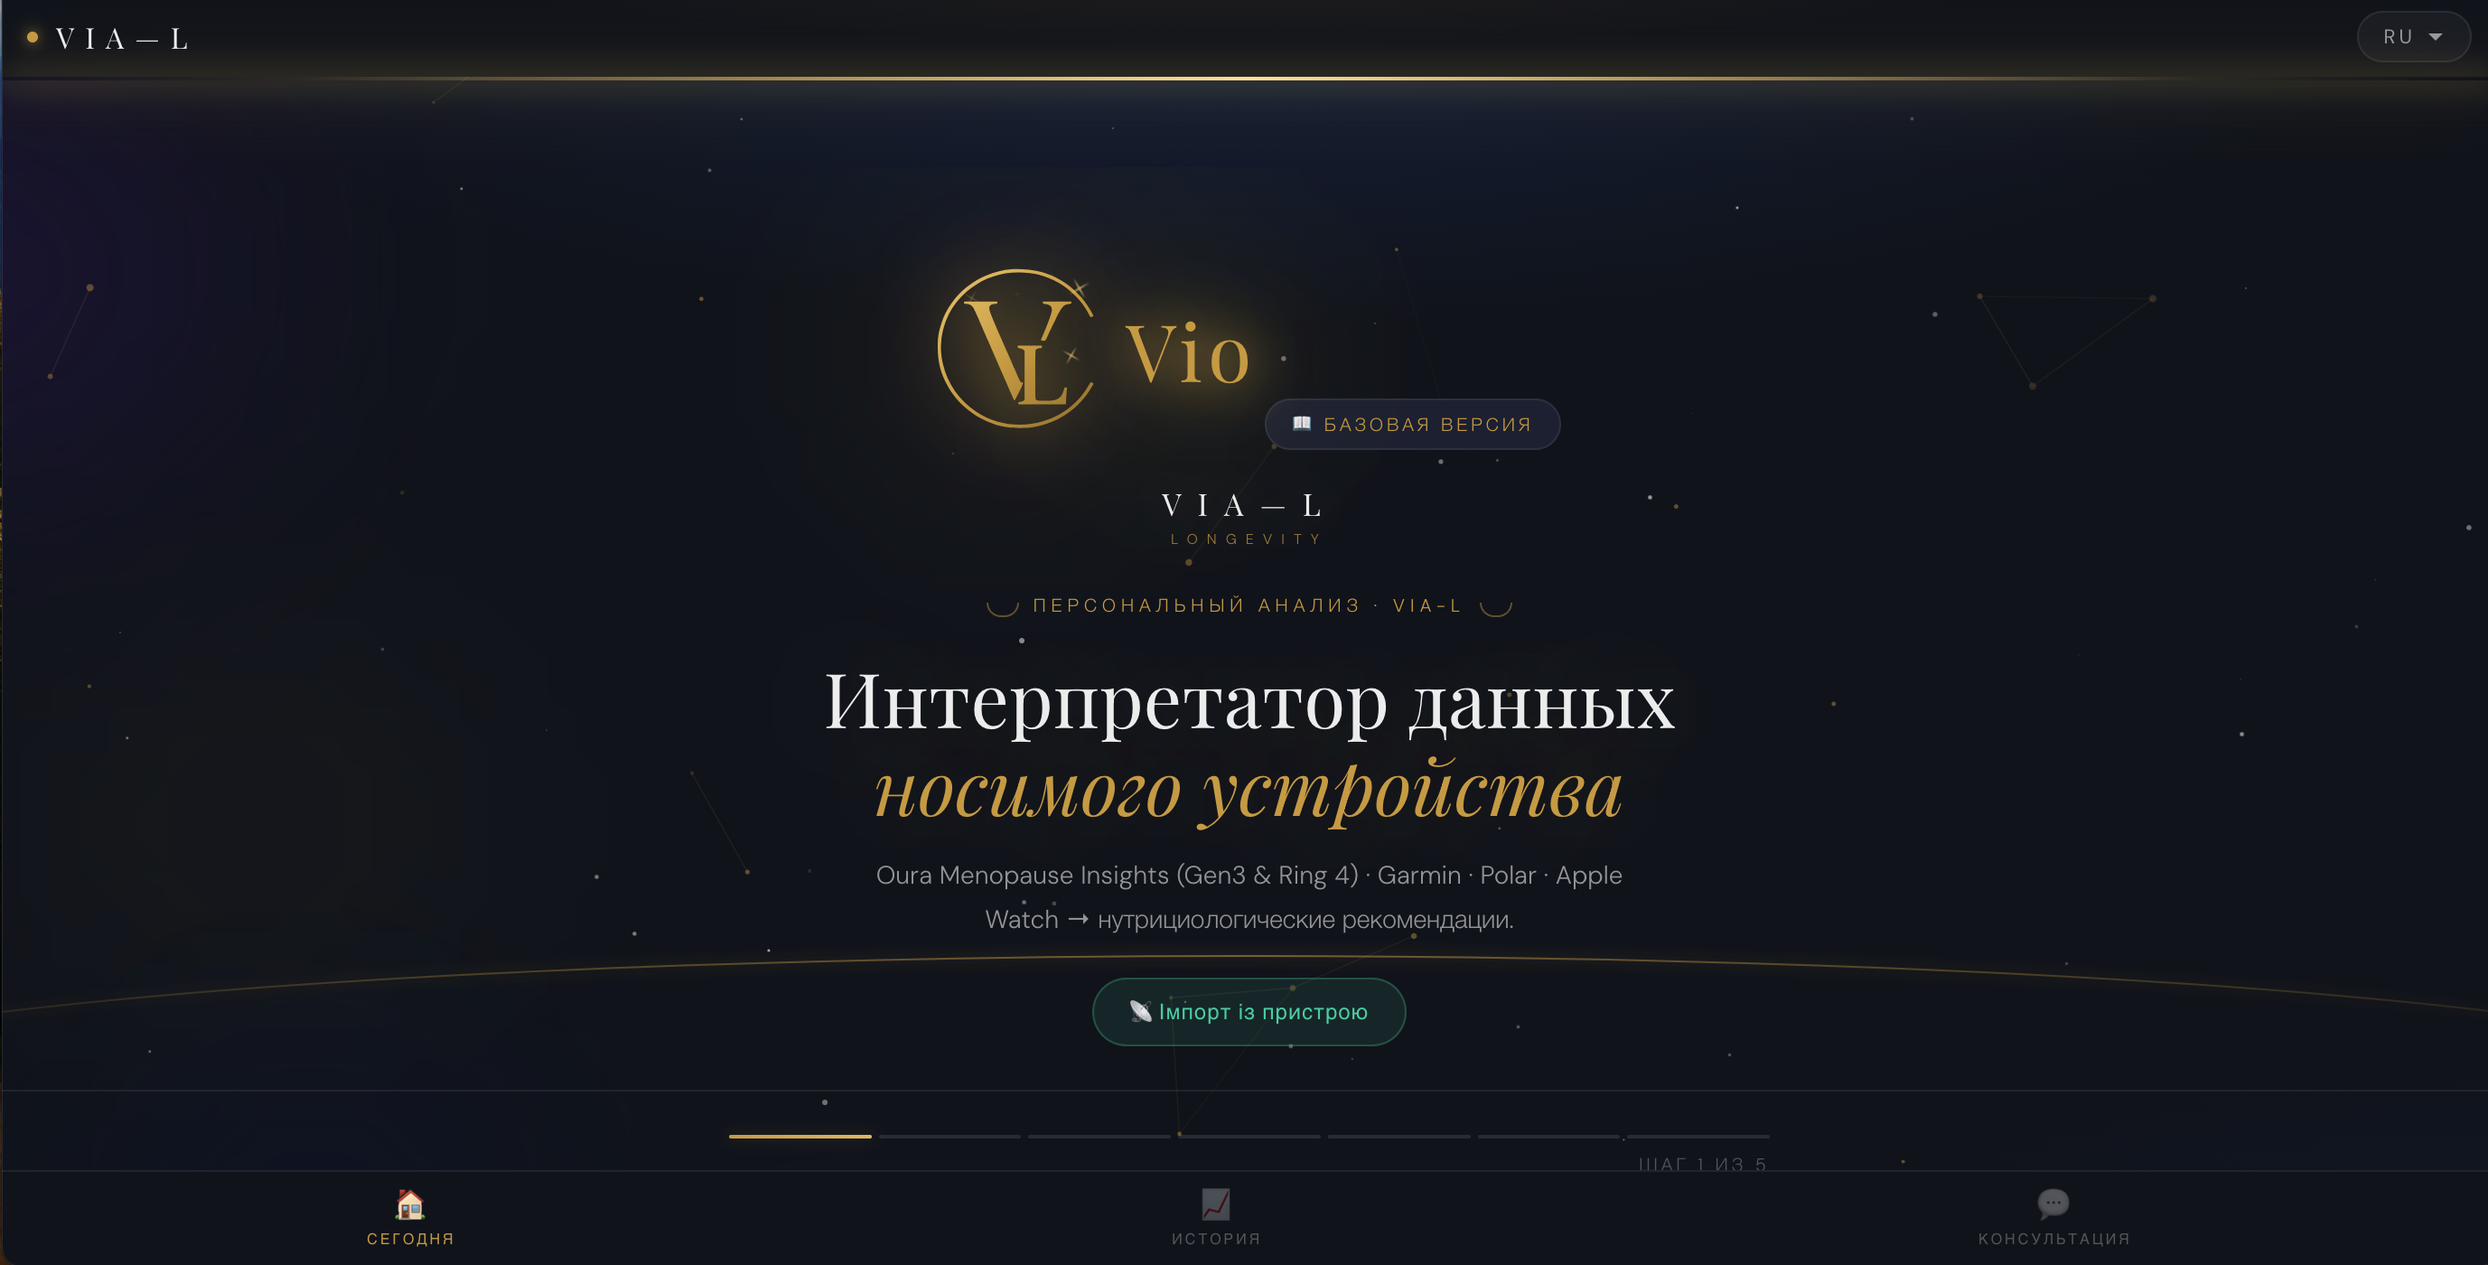
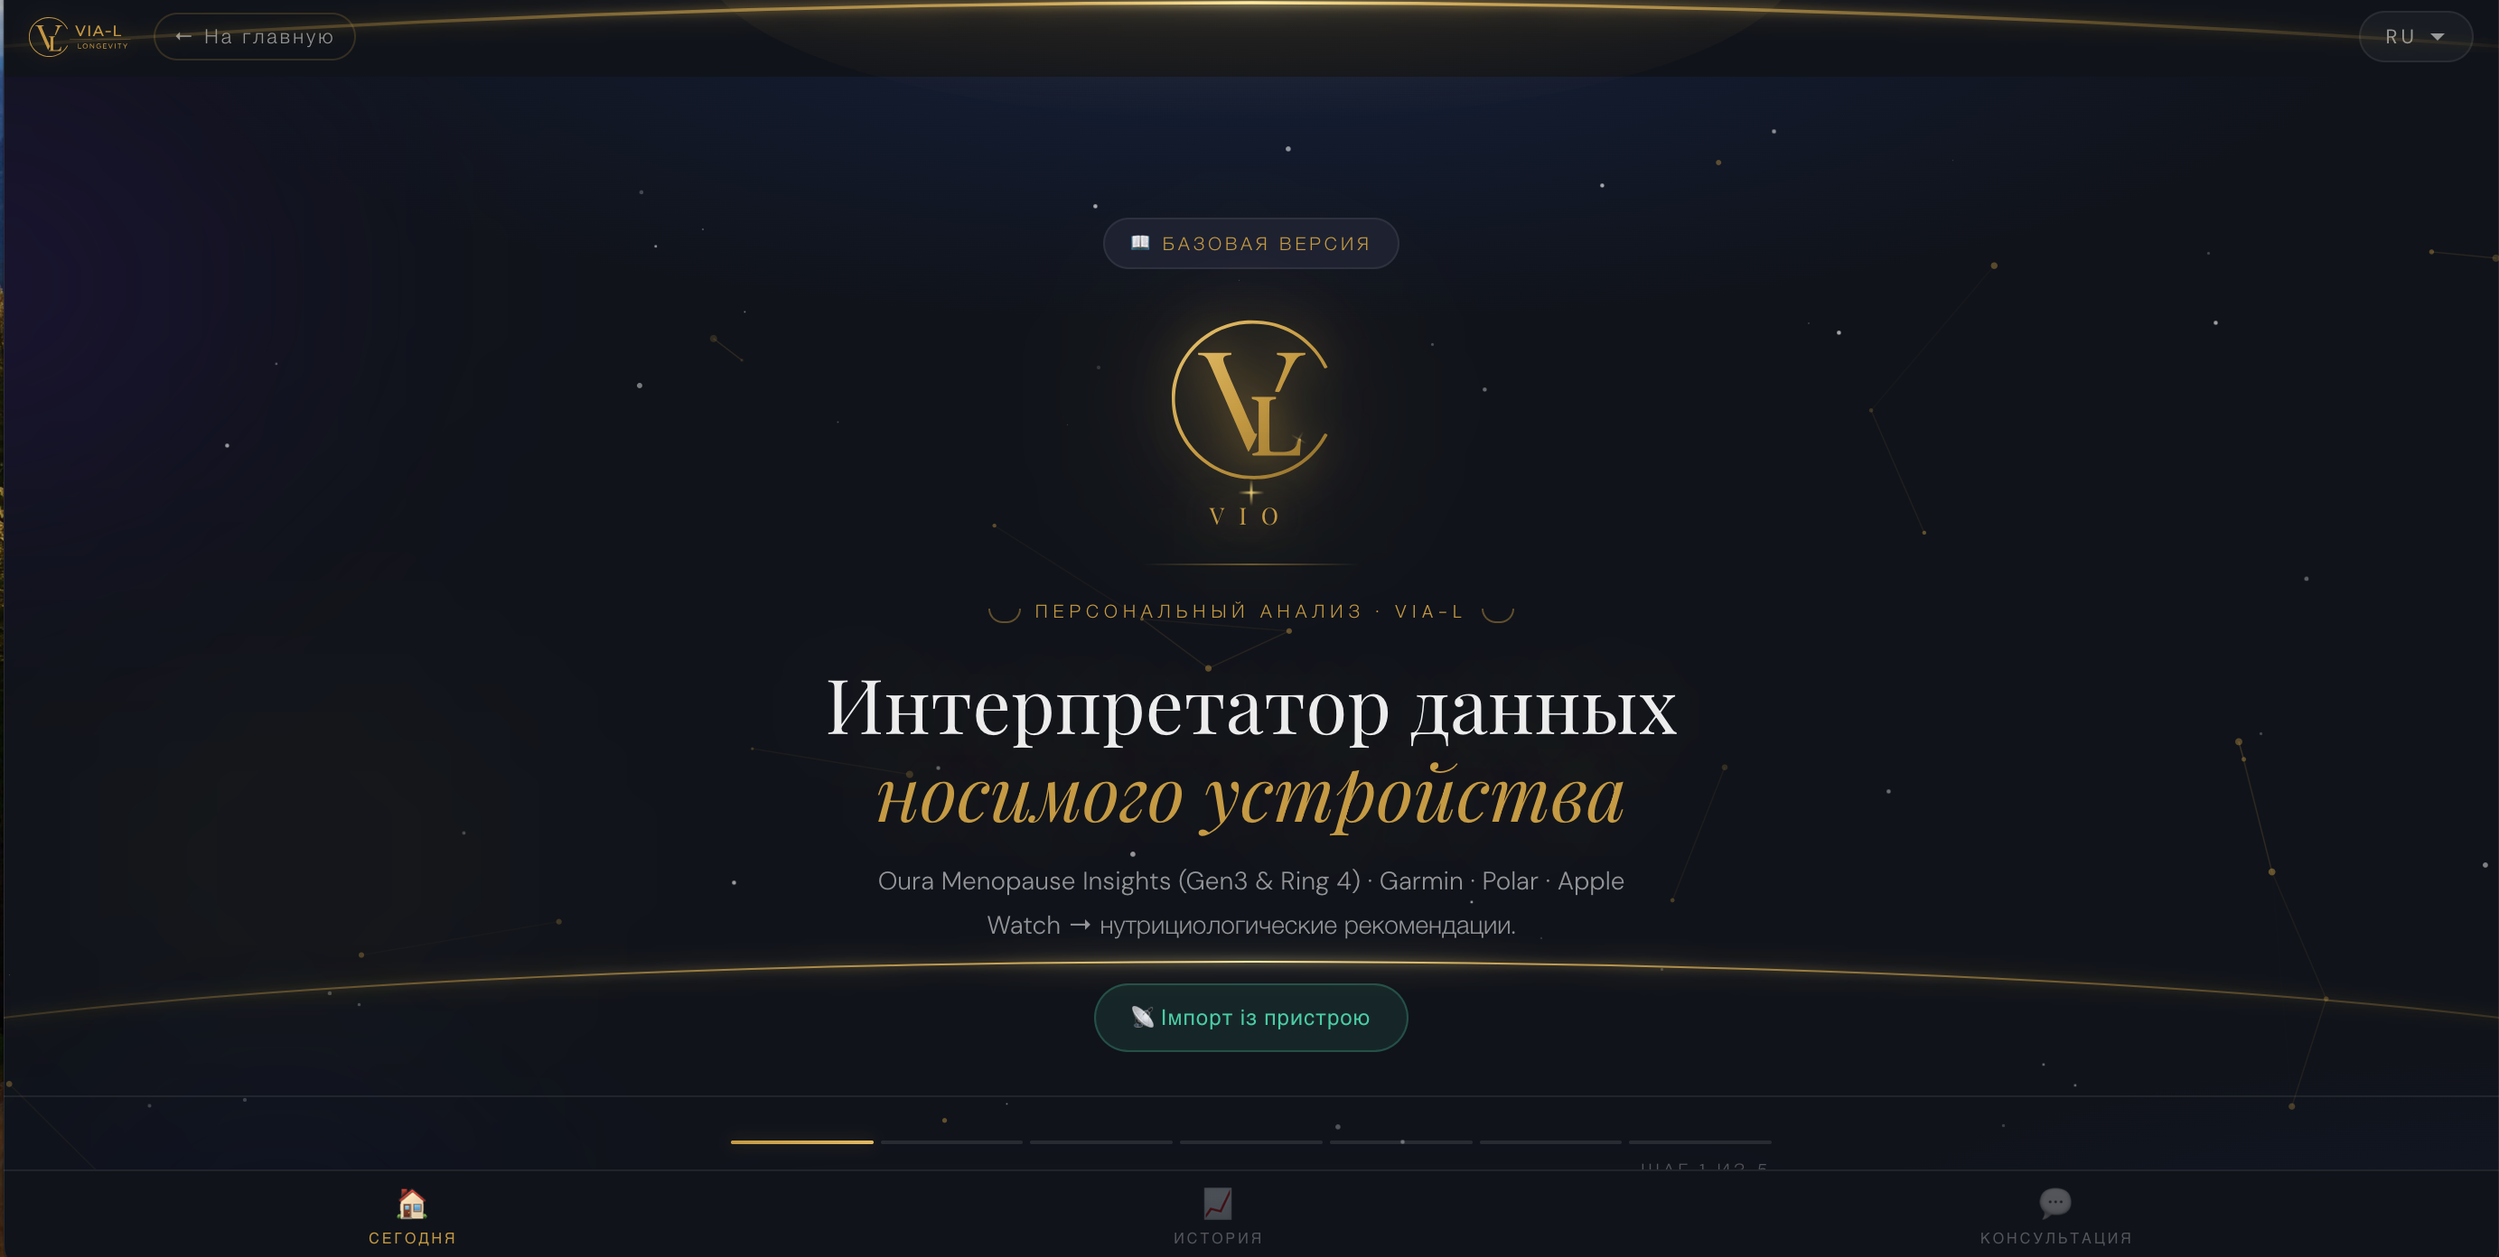
равняем логотип

diff --git a/Интерпретатор /interpreter-v10.html b/Интерпретатор /interpreter-v10.html
@@ -124,7 +124,7 @@ body{
 }
 .lang-logo{text-decoration:none;display:flex;align-items:center;gap:14px;}
 .lang-logo-dot{display:none;}
-.lang-logo svg{height:22px;width:auto;filter:drop-shadow(0 0 6px rgba(196,154,60,0.35));}
+.lang-logo svg{height:34px;width:auto;filter:drop-shadow(0 0 6px rgba(196,154,60,0.35));}
 .topbar-home{
   font-family:'DM Sans',sans-serif;font-size:11px;letter-spacing:1.5px;
   color:var(--t2);text-decoration:none;
@@ -1094,8 +1094,8 @@ footer{
 .lang-bar{border-bottom:none !important;position:relative;overflow:visible;}
 #topbar{overflow:visible;}
 .topbar-planet-arc{
-  position:absolute;bottom:-2px;left:0;width:100%;height:72px;
-  pointer-events:none;z-index:10;overflow:visible;
+  position:absolute;bottom:0;left:0;width:100%;height:30px;
+  pointer-events:none;z-index:20;overflow:visible;
 }
 
 /* ── Hero VL monogram ── */
@@ -1392,7 +1392,7 @@ footer{
 <div class="lang-bar">
   <div style="display:flex;align-items:center;gap:12px;">
     <a href="../interpreter-app/index.html" class="lang-logo">
-      <svg height="22" viewBox="0 0 869 335" fill="none" xmlns="http://www.w3.org/2000/svg">
+      <svg height="34" viewBox="0 0 869 335" fill="none" xmlns="http://www.w3.org/2000/svg">
         <path fill-rule="evenodd" clip-rule="evenodd" d="M153.972 0.575971C86.3115 6.79897 27.6765 52.656 7.54753 115.09C1.53453 133.74 -0.0334622 144.128 0.000537849 165.09C0.0495378 196.331 6.06354 219.476 21.2985 247.061C45.4175 290.731 92.1245 323.787 142.361 332.741C157.959 335.521 185.285 335.737 200.825 333.204C253.728 324.579 298.024 294.082 324.777 247.865L328.38 241.639L326.204 240.115C325.006 239.276 323.491 238.59 322.836 238.59C322.18 238.59 319.947 241.628 317.873 245.34C305.858 266.845 287.231 286.775 266.863 299.918C208.912 337.312 137.117 337.459 80.6935 300.3C45.2895 276.983 20.0005 240.742 11.1165 200.59C6.94454 181.735 5.97355 169.491 7.37755 153.463C11.3936 107.628 33.1695 68.391 69.9715 40.683C99.6925 18.305 132.639 7.35499 170.472 7.28099C201.525 7.21999 228.833 14.315 254.811 29.191C281.652 44.562 305.102 68.973 318.359 95.34C320.087 98.778 321.652 101.59 321.837 101.59C322.504 101.59 328.472 99.388 328.472 99.142C328.472 99.004 326.174 94.66 323.365 89.49C301.093 48.499 260.551 16.742 216.472 5.75898C197.257 0.970984 172.235 -1.10403 153.972 0.575971ZM55.4715 71.09C55.4715 73.361 55.8605 73.592 59.7215 73.612C65.7755 73.643 71.8716 76.723 74.8616 81.261C76.2486 83.367 81.2805 94.09 86.0445 105.09C90.8085 116.09 99.7686 136.79 105.956 151.09C112.143 165.39 120.586 184.74 124.719 194.09C128.851 203.44 136.835 221.665 142.461 234.59C148.087 247.515 154.514 262.271 156.742 267.38C158.97 272.49 161.171 276.904 161.632 277.189C162.691 277.843 178.275 246.262 179.132 241.726C179.713 238.649 179.589 238.418 177.676 239.025C174.77 239.947 174.066 238.681 162.061 210.958C156.376 197.83 149.24 181.465 146.203 174.59C108.799 89.915 106.551 84.048 109.439 78.651C110.954 75.82 116.242 73.59 121.44 73.59C125.074 73.59 125.472 73.343 125.472 71.09V68.59H90.4715H55.4715V71.09ZM221.472 70.95C221.472 73.061 222.025 73.368 226.722 73.855C236.566 74.875 240.486 78.424 240.459 86.29C240.439 92.294 235.464 106.495 222.566 137.365C219.764 144.071 217.472 149.75 217.472 149.986C217.472 150.221 219.321 150.727 221.58 151.108C226.745 151.981 226.985 151.718 232.554 139.09C234.98 133.59 241.991 118.965 248.134 106.59C261.857 78.945 265.062 75.255 276.526 73.897C280.892 73.38 281.472 73.035 281.472 70.951V68.59H251.472H221.472V70.95ZM168.472 163.976C168.472 166.04 169.084 166.455 172.991 167.041C175.483 167.414 178.734 168.771 180.239 170.066L182.969 172.414L182.971 224.087L182.972 275.76L180.679 277.62C179.418 278.643 176.38 279.781 173.929 280.149C170.584 280.65 169.472 281.259 169.472 282.587C169.472 283.581 170.458 284.615 171.722 284.945C172.959 285.269 195.572 285.434 221.972 285.312L269.972 285.09L270.623 273.09C270.981 266.49 271.566 258.503 271.923 255.34C272.525 249.999 272.425 249.59 270.522 249.59C269.394 249.59 268.18 249.478 267.824 249.34C267.468 249.202 266.426 251.79 265.509 255.09C263.427 262.582 261.442 266.355 257.811 269.726C251.19 275.873 243.693 277.59 223.479 277.59C209.222 277.59 208.519 277.495 207.029 275.367C205.67 273.428 205.472 266.762 205.472 222.949C205.472 195.342 205.752 172.025 206.093 171.135C206.984 168.812 211.79 166.59 215.922 166.59C219.042 166.59 219.472 166.287 219.472 164.09V161.59H193.972H168.472V163.976ZM337.472 189.09C337.472 190.414 349.796 190.59 442.389 190.59C525.386 190.59 547.411 190.329 547.81 189.34C548.213 188.34 548.33 188.34 548.393 189.34C548.456 190.334 581.181 190.59 708.472 190.59C850.028 190.59 868.472 190.417 868.472 189.09C868.472 187.761 843.87 187.59 653.055 187.59C481.658 187.59 437.536 187.845 437.134 188.84C436.731 189.84 436.614 189.84 436.551 188.84C436.489 187.858 425.863 187.59 386.972 187.59C343.639 187.59 337.472 187.777 337.472 189.09ZM393.435 78.84C395.561 83.927 401.903 98.665 407.527 111.59C413.152 124.515 420.136 140.715 423.048 147.59L428.343 160.09L434.407 160.388C439.934 160.659 440.554 160.482 441.4 158.388C442.565 155.506 461.082 111.992 467.698 96.59C476.68 75.679 478.472 71.324 478.472 70.407C478.472 69.907 475.449 69.632 471.754 69.794L465.036 70.09L450.296 105.464C442.189 124.92 435.391 141.005 435.188 141.207C434.873 141.522 419.776 106.709 407.927 78.34L404.272 69.59H396.92H389.569L393.435 78.84ZM501.472 115.09V160.59H508.472H515.472V115.09V69.59H508.472H501.472V115.09ZM578.616 71.34C578.106 72.302 574.762 79.615 571.183 87.59C567.605 95.565 562.999 105.69 560.949 110.09C548.019 137.84 538.472 159.114 538.472 160.179C538.472 160.405 541.561 160.59 545.336 160.59H552.2L554.003 155.87C554.994 153.274 557.319 147.874 559.169 143.87L562.533 136.59H584.801H607.07L608.335 140.089C609.031 142.013 611.393 147.413 613.584 152.089L617.568 160.59H624.52C628.344 160.59 631.472 160.415 631.472 160.201C631.472 159.987 629.169 154.699 626.354 148.451C623.539 142.202 620.203 134.615 618.942 131.59C617.68 128.565 612.748 117.54 607.982 107.09C603.216 96.64 597.474 83.927 595.222 78.84L591.127 69.59H585.335C580.838 69.59 579.335 69.981 578.616 71.34ZM716.472 115.09V160.59H746.972H777.472V155.09V149.59H753.972H730.472V109.59V69.59H723.472H716.472V115.09ZM596.039 111.78C599.027 118.759 601.472 124.722 601.472 125.03C601.472 125.338 593.774 125.59 584.365 125.59C571.069 125.59 567.374 125.312 567.778 124.34C568.065 123.653 571.215 116.565 574.779 108.59C578.343 100.615 582.017 92.29 582.943 90.09L584.626 86.09L587.616 92.59C589.26 96.165 593.05 104.8 596.039 111.78ZM645.472 122.09V127.59H667.972H690.472V122.09V116.59H667.972H645.472V122.09ZM414.472 243.59V264.59H427.972H441.472V262.09V259.59H430.472H419.472V241.09V222.59H416.972H414.472V243.59ZM464.625 225.201C460.572 227.221 458.703 228.976 456.372 232.951C453.661 237.573 453.4 238.755 453.772 244.701C454.297 253.104 458.18 259.302 464.981 262.594C472.562 266.264 484.082 264.968 489.789 259.803C493.83 256.146 496.615 249.853 496.614 244.38C496.614 237.81 495.515 234.848 491.298 230.044C484.538 222.345 474.143 220.458 464.625 225.201ZM515.139 223.257C514.772 223.623 514.472 233.073 514.472 244.257V264.59H516.972H519.472L519.674 251.34C519.785 244.052 519.893 236.853 519.914 235.34C519.935 233.827 520.182 232.617 520.462 232.651C520.743 232.685 523.294 235.722 526.132 239.401C528.97 243.08 534.497 250.253 538.414 255.34C549.305 269.487 549.472 269.312 549.472 243.757V222.924L547.222 223.088C545.016 223.249 544.962 223.555 544.472 238.753L543.972 254.253L532.972 239.884C526.922 231.981 521.377 224.857 520.651 224.053C519.277 222.532 516.294 222.101 515.139 223.257ZM579.379 224.917C572.594 228.499 569.116 234.191 568.648 242.481C568.24 249.707 569.543 253.712 573.839 258.435C580.484 265.741 594.064 267.112 602.924 261.373L606.447 259.09L606.46 250.84L606.472 242.59H597.972C590.139 242.59 589.472 242.747 589.472 244.59C589.472 246.368 590.139 246.59 595.472 246.59H601.472V251.646C601.472 256.699 601.469 256.704 596.837 258.753C585.759 263.653 573.569 255.716 573.494 243.552C573.462 238.411 577.305 231.587 581.456 229.414C586.591 226.726 594.309 226.99 598.753 230.006C602.132 232.299 602.395 232.333 603.901 230.668C605.355 229.062 605.337 228.778 603.693 227.29C598.06 222.192 586.65 221.078 579.379 224.917ZM628.222 223.263L625.472 223.723V244.156V264.59H639.972H654.472V262.09V259.59H642.972H631.472V252.59V245.59H641.472C650.805 245.59 651.472 245.457 651.472 243.59C651.472 241.723 650.805 241.59 641.472 241.59H631.472V234.59V227.59H642.472C652.805 227.59 653.472 227.469 653.472 225.59C653.472 223.95 652.797 223.585 649.722 223.564C647.66 223.549 642.597 223.372 638.472 223.171C634.347 222.969 629.735 223.011 628.222 223.263ZM667.472 223.024C667.472 223.284 670.553 230.605 674.318 239.293C678.083 247.982 681.978 257.251 682.973 259.891C684.537 264.04 685.121 264.652 687.273 264.391C689.488 264.123 690.689 261.934 698.118 244.624C702.713 233.917 706.472 224.655 706.472 224.041C706.472 222.722 702.805 222.809 701.615 224.156C700.495 225.421 688.472 254.076 688.472 255.477C688.472 258.309 686.721 256.034 684.521 250.34C682.354 244.736 673.497 224.253 673.122 223.981C672.462 223.5 667.472 222.656 667.472 223.024ZM723.702 243.34L723.972 264.09L726.722 264.406L729.472 264.723V243.656V222.59H726.452H723.431L723.702 243.34ZM746.473 225.34C746.472 227.459 746.879 227.59 753.472 227.59H760.472L760.606 241.84C760.68 249.677 760.64 258.003 760.516 260.34C760.307 264.304 760.466 264.59 762.882 264.59H765.472V246.09V227.59H772.472C779.065 227.59 779.472 227.459 779.472 225.34C779.472 223.097 779.417 223.09 762.973 223.09C746.529 223.09 746.473 223.098 746.473 225.34ZM793.044 223.474C792.753 223.945 796.105 229.553 800.493 235.937L808.472 247.544V256.067C808.472 264.492 808.501 264.59 810.972 264.59C813.353 264.59 813.48 264.292 813.65 258.34C813.748 254.903 813.816 251.219 813.801 250.156C813.786 249.092 817.475 242.679 821.998 235.906L830.223 223.59L827.097 223.622C824.24 223.652 823.47 224.466 818.116 233.122C814.895 238.33 811.97 242.575 811.616 242.556C811.262 242.538 808.047 238.18 804.472 232.874C800.004 226.242 797.284 223.13 795.772 222.922C794.563 222.755 793.335 223.003 793.044 223.474ZM483.231 229.585C492.139 235.016 493.744 248.164 486.395 255.513C480.133 261.775 471.129 261.986 464.532 256.025C456.493 248.762 457.65 235.111 466.776 229.546C471.072 226.927 478.902 226.945 483.231 229.585Z" fill="#c4963c"/>
       </svg>
     </a>
@@ -1418,47 +1418,46 @@ footer{
       <div class="lang-option" onclick="setLang('ko')"><span class="lang-flag">🇰🇷</span>한국어</div>
     </div>
   </div>
-  <!-- Planet arc with solar flare -->
-  <svg class="topbar-planet-arc" viewBox="0 0 1000 72" preserveAspectRatio="none" xmlns="http://www.w3.org/2000/svg">
+  <!-- Planet horizon arc -->
+  <svg class="topbar-planet-arc" viewBox="-20 0 1040 30" preserveAspectRatio="none" xmlns="http://www.w3.org/2000/svg">
     <defs>
-      <linearGradient id="arc-grad" x1="0" y1="0" x2="1" y2="0">
+      <linearGradient id="arc-grad" x1="-20" y1="0" x2="1020" y2="0" gradientUnits="userSpaceOnUse">
         <stop offset="0%"   stop-color="rgba(196,154,60,0)"/>
-        <stop offset="20%"  stop-color="rgba(196,154,60,0.4)"/>
-        <stop offset="42%"  stop-color="rgba(226,185,90,0.85)"/>
-        <stop offset="50%"  stop-color="rgba(255,235,155,1)"/>
-        <stop offset="58%"  stop-color="rgba(226,185,90,0.85)"/>
-        <stop offset="80%"  stop-color="rgba(196,154,60,0.4)"/>
+        <stop offset="16%"  stop-color="rgba(196,154,60,0.35)"/>
+        <stop offset="38%"  stop-color="rgba(226,185,90,0.9)"/>
+        <stop offset="50%"  stop-color="rgba(255,238,160,1)"/>
+        <stop offset="62%"  stop-color="rgba(226,185,90,0.9)"/>
+        <stop offset="84%"  stop-color="rgba(196,154,60,0.35)"/>
         <stop offset="100%" stop-color="rgba(196,154,60,0)"/>
       </linearGradient>
-      <radialGradient id="sun-corona" cx="50%" cy="0%" r="100%">
-        <stop offset="0%"   stop-color="rgba(255,255,255,1)"/>
-        <stop offset="12%"  stop-color="rgba(255,245,180,0.9)"/>
-        <stop offset="38%"  stop-color="rgba(226,185,90,0.35)"/>
+      <radialGradient id="corona" cx="50%" cy="50%" r="50%">
+        <stop offset="0%"   stop-color="rgba(255,245,180,0.5)"/>
+        <stop offset="60%"  stop-color="rgba(196,154,60,0.12)"/>
         <stop offset="100%" stop-color="rgba(196,154,60,0)"/>
       </radialGradient>
-      <filter id="arc-glow" x="-5%" y="-400%" width="110%" height="900%">
-        <feGaussianBlur in="SourceGraphic" stdDeviation="2.5" result="b1"/>
-        <feGaussianBlur in="SourceGraphic" stdDeviation="7"   result="b2"/>
+      <filter id="arc-glow" x="-2%" y="-600%" width="104%" height="1400%">
+        <feGaussianBlur in="SourceGraphic" stdDeviation="2"   result="b1"/>
+        <feGaussianBlur in="SourceGraphic" stdDeviation="6.5" result="b2"/>
         <feMerge><feMergeNode in="b2"/><feMergeNode in="b1"/><feMergeNode in="SourceGraphic"/></feMerge>
       </filter>
-      <filter id="spark-glow" x="-300%" y="-300%" width="700%" height="700%">
-        <feGaussianBlur in="SourceGraphic" stdDeviation="4" result="b"/>
-        <feMerge><feMergeNode in="b"/><feMergeNode in="SourceGraphic"/></feMerge>
+      <filter id="dot-glow" x="-600%" y="-600%" width="1300%" height="1300%">
+        <feGaussianBlur in="SourceGraphic" stdDeviation="4.5" result="b1"/>
+        <feGaussianBlur in="SourceGraphic" stdDeviation="1.5" result="b2"/>
+        <feMerge><feMergeNode in="b1"/><feMergeNode in="b2"/><feMergeNode in="SourceGraphic"/></feMerge>
       </filter>
     </defs>
-    <!-- Corona halo from behind the planet -->
-    <ellipse cx="500" cy="4" rx="220" ry="90" fill="url(#sun-corona)" opacity="0.55"/>
-    <!-- Planet arc line -->
-    <path d="M-30 56 Q500 2 1030 56" stroke="url(#arc-grad)" stroke-width="1.8" fill="none" filter="url(#arc-glow)"/>
-    <!-- Sun spark at peak — cross flare -->
-    <g filter="url(#spark-glow)" opacity="0.92">
-      <line x1="500" y1="-10" x2="500" y2="16"  stroke="rgba(255,255,255,0.85)" stroke-width="0.9"/>
-      <line x1="488"  y1="3"  x2="512" y2="3"   stroke="rgba(255,255,255,0.85)" stroke-width="0.9"/>
-      <line x1="491"  y1="-4" x2="509" y2="10"  stroke="rgba(255,255,255,0.4)"  stroke-width="0.6"/>
-      <line x1="491"  y1="10" x2="509" y2="-4"  stroke="rgba(255,255,255,0.4)"  stroke-width="0.6"/>
+    <!-- Soft corona halo at peak -->
+    <ellipse cx="500" cy="5" rx="190" ry="52" fill="url(#corona)" opacity="0.65"/>
+    <!-- Planet arc: cubic bezier — flat horizontal ends curving down, peak in centre -->
+    <path d="M-20 27 C140 27 340 5 500 5 C660 5 860 27 1020 27"
+          stroke="url(#arc-grad)" stroke-width="1.6" fill="none" filter="url(#arc-glow)"/>
+    <!-- Bright peak dot -->
+    <circle cx="500" cy="5" r="2.8" fill="rgba(255,255,255,0.98)" filter="url(#dot-glow)"/>
+    <!-- Thin cross flare -->
+    <g filter="url(#dot-glow)" opacity="0.75">
+      <line x1="500" y1="-6"  x2="500" y2="16" stroke="rgba(255,255,255,0.8)" stroke-width="0.75"/>
+      <line x1="490" y1="5"   x2="510" y2="5"  stroke="rgba(255,255,255,0.8)" stroke-width="0.75"/>
     </g>
-    <!-- Bright core of the spark -->
-    <circle cx="500" cy="3" r="2.2" fill="rgba(255,255,255,0.98)" filter="url(#spark-glow)"/>
   </svg>
 </div>
 </div><!-- /topbar -->
